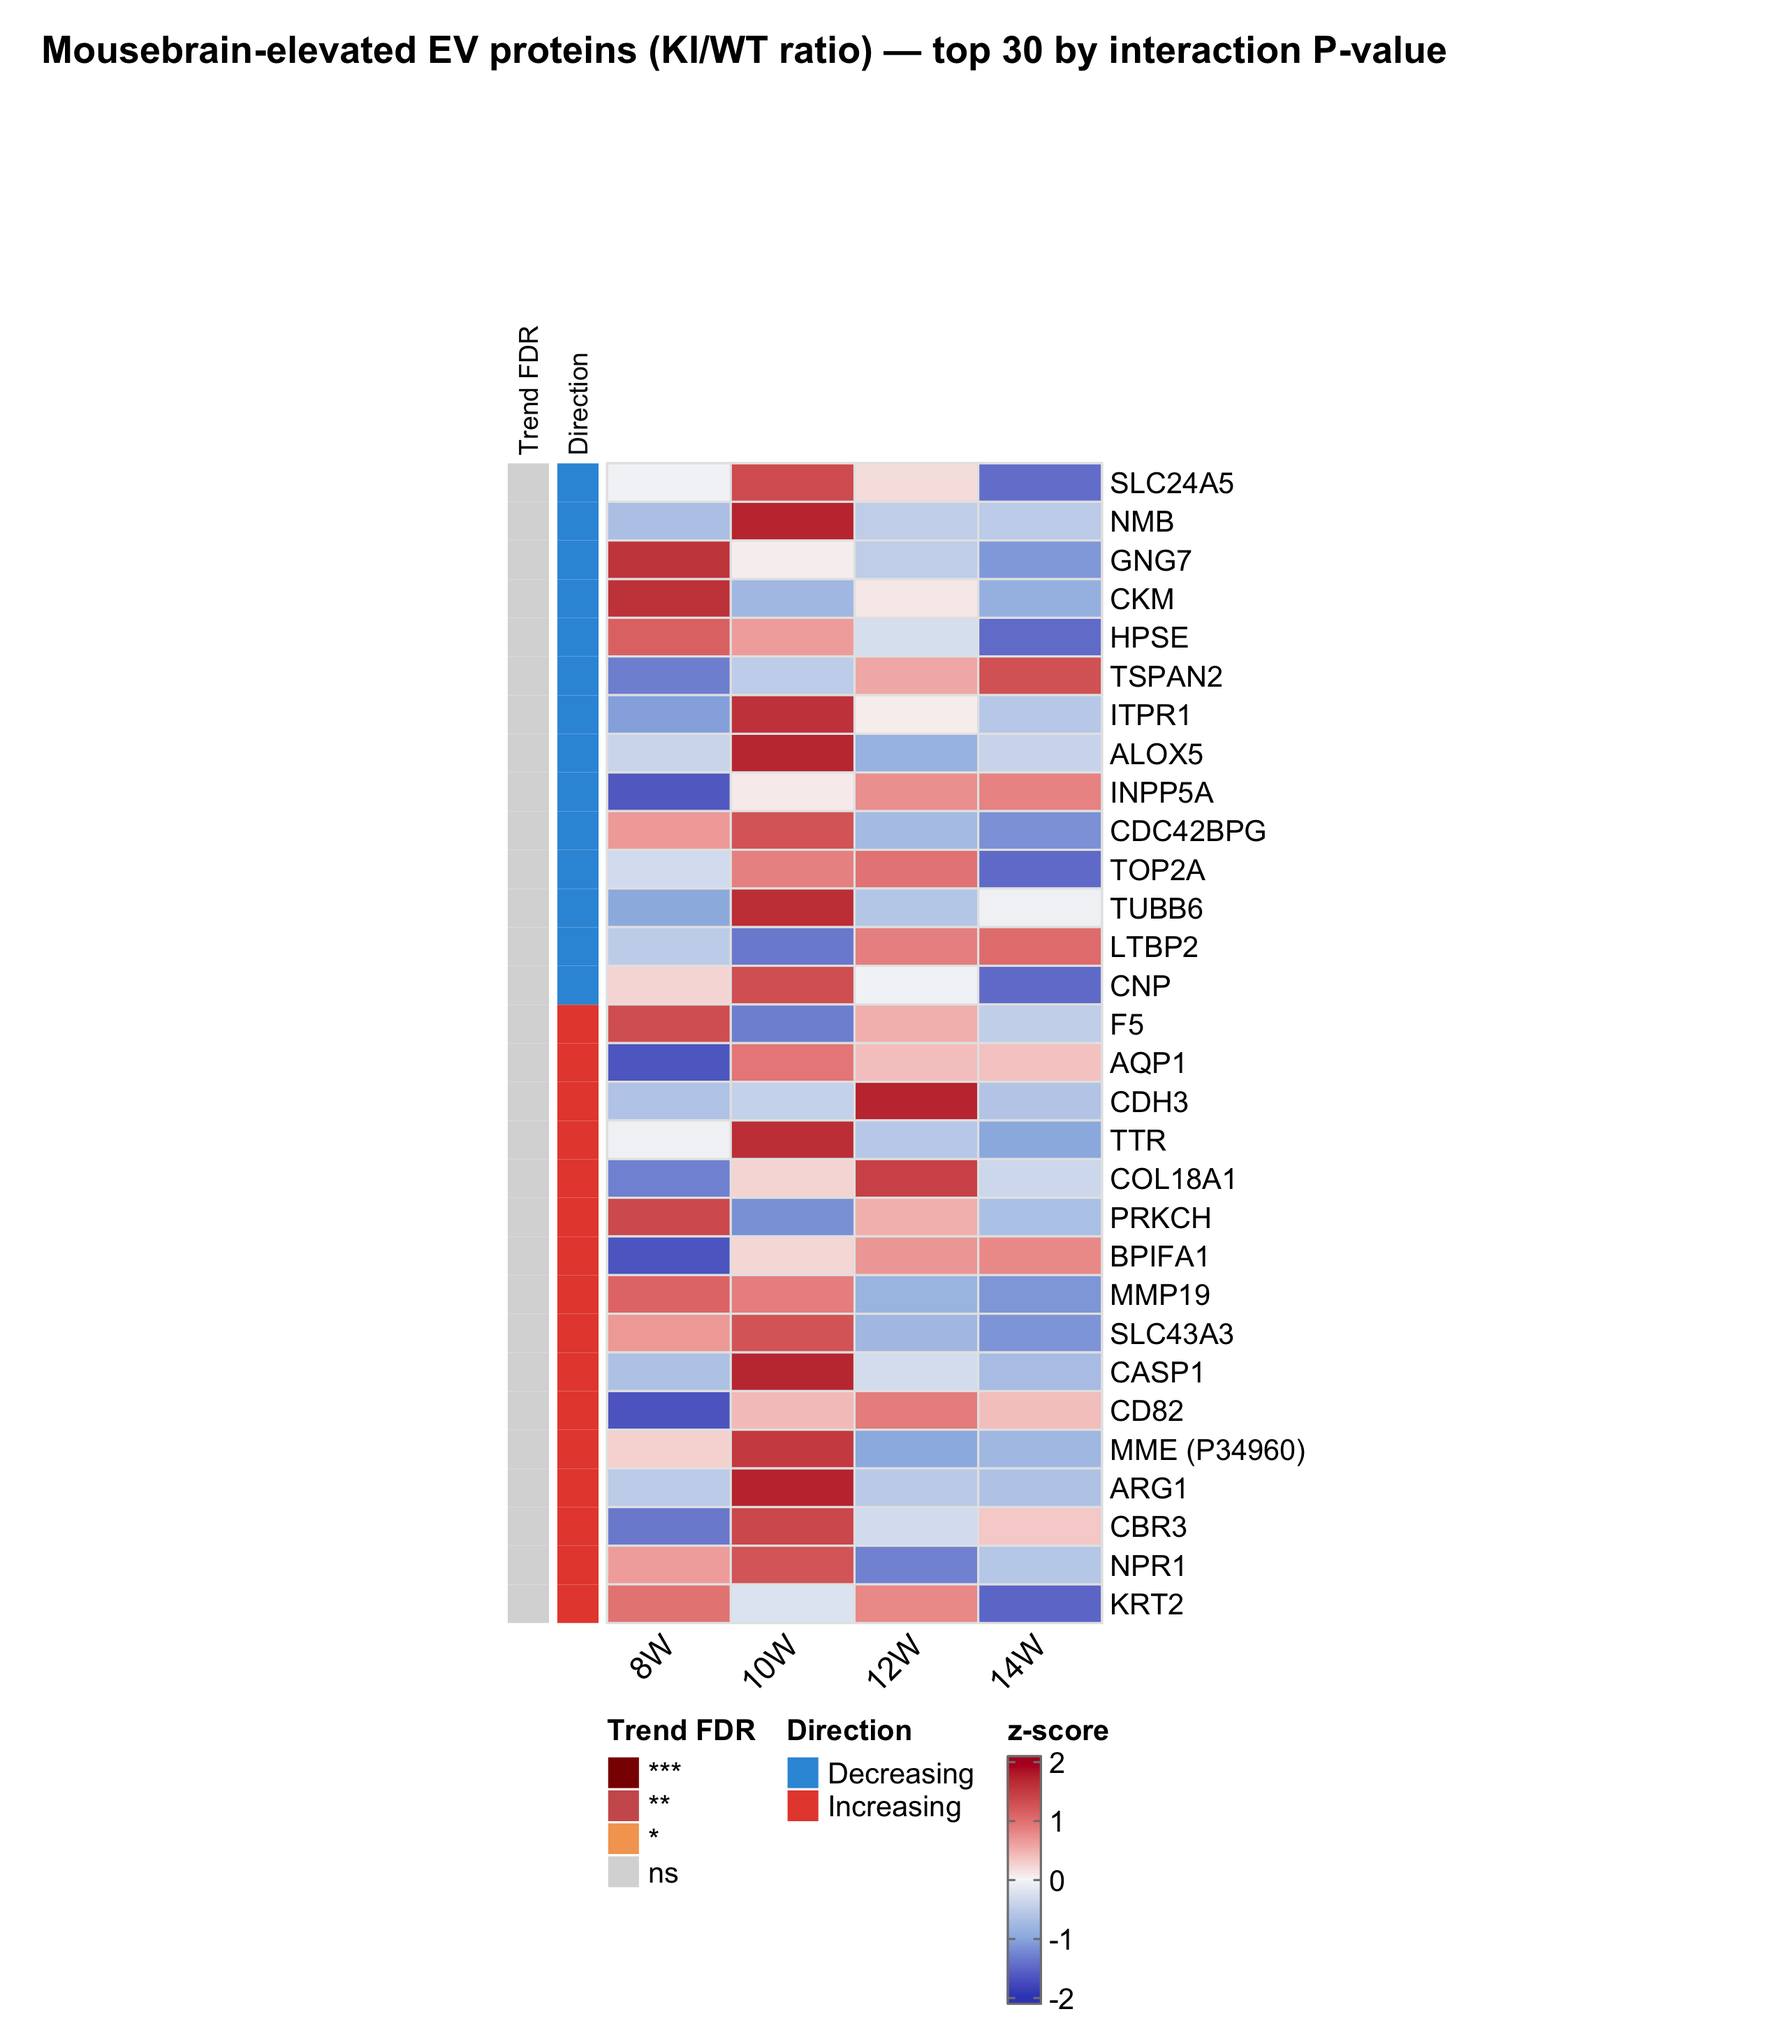
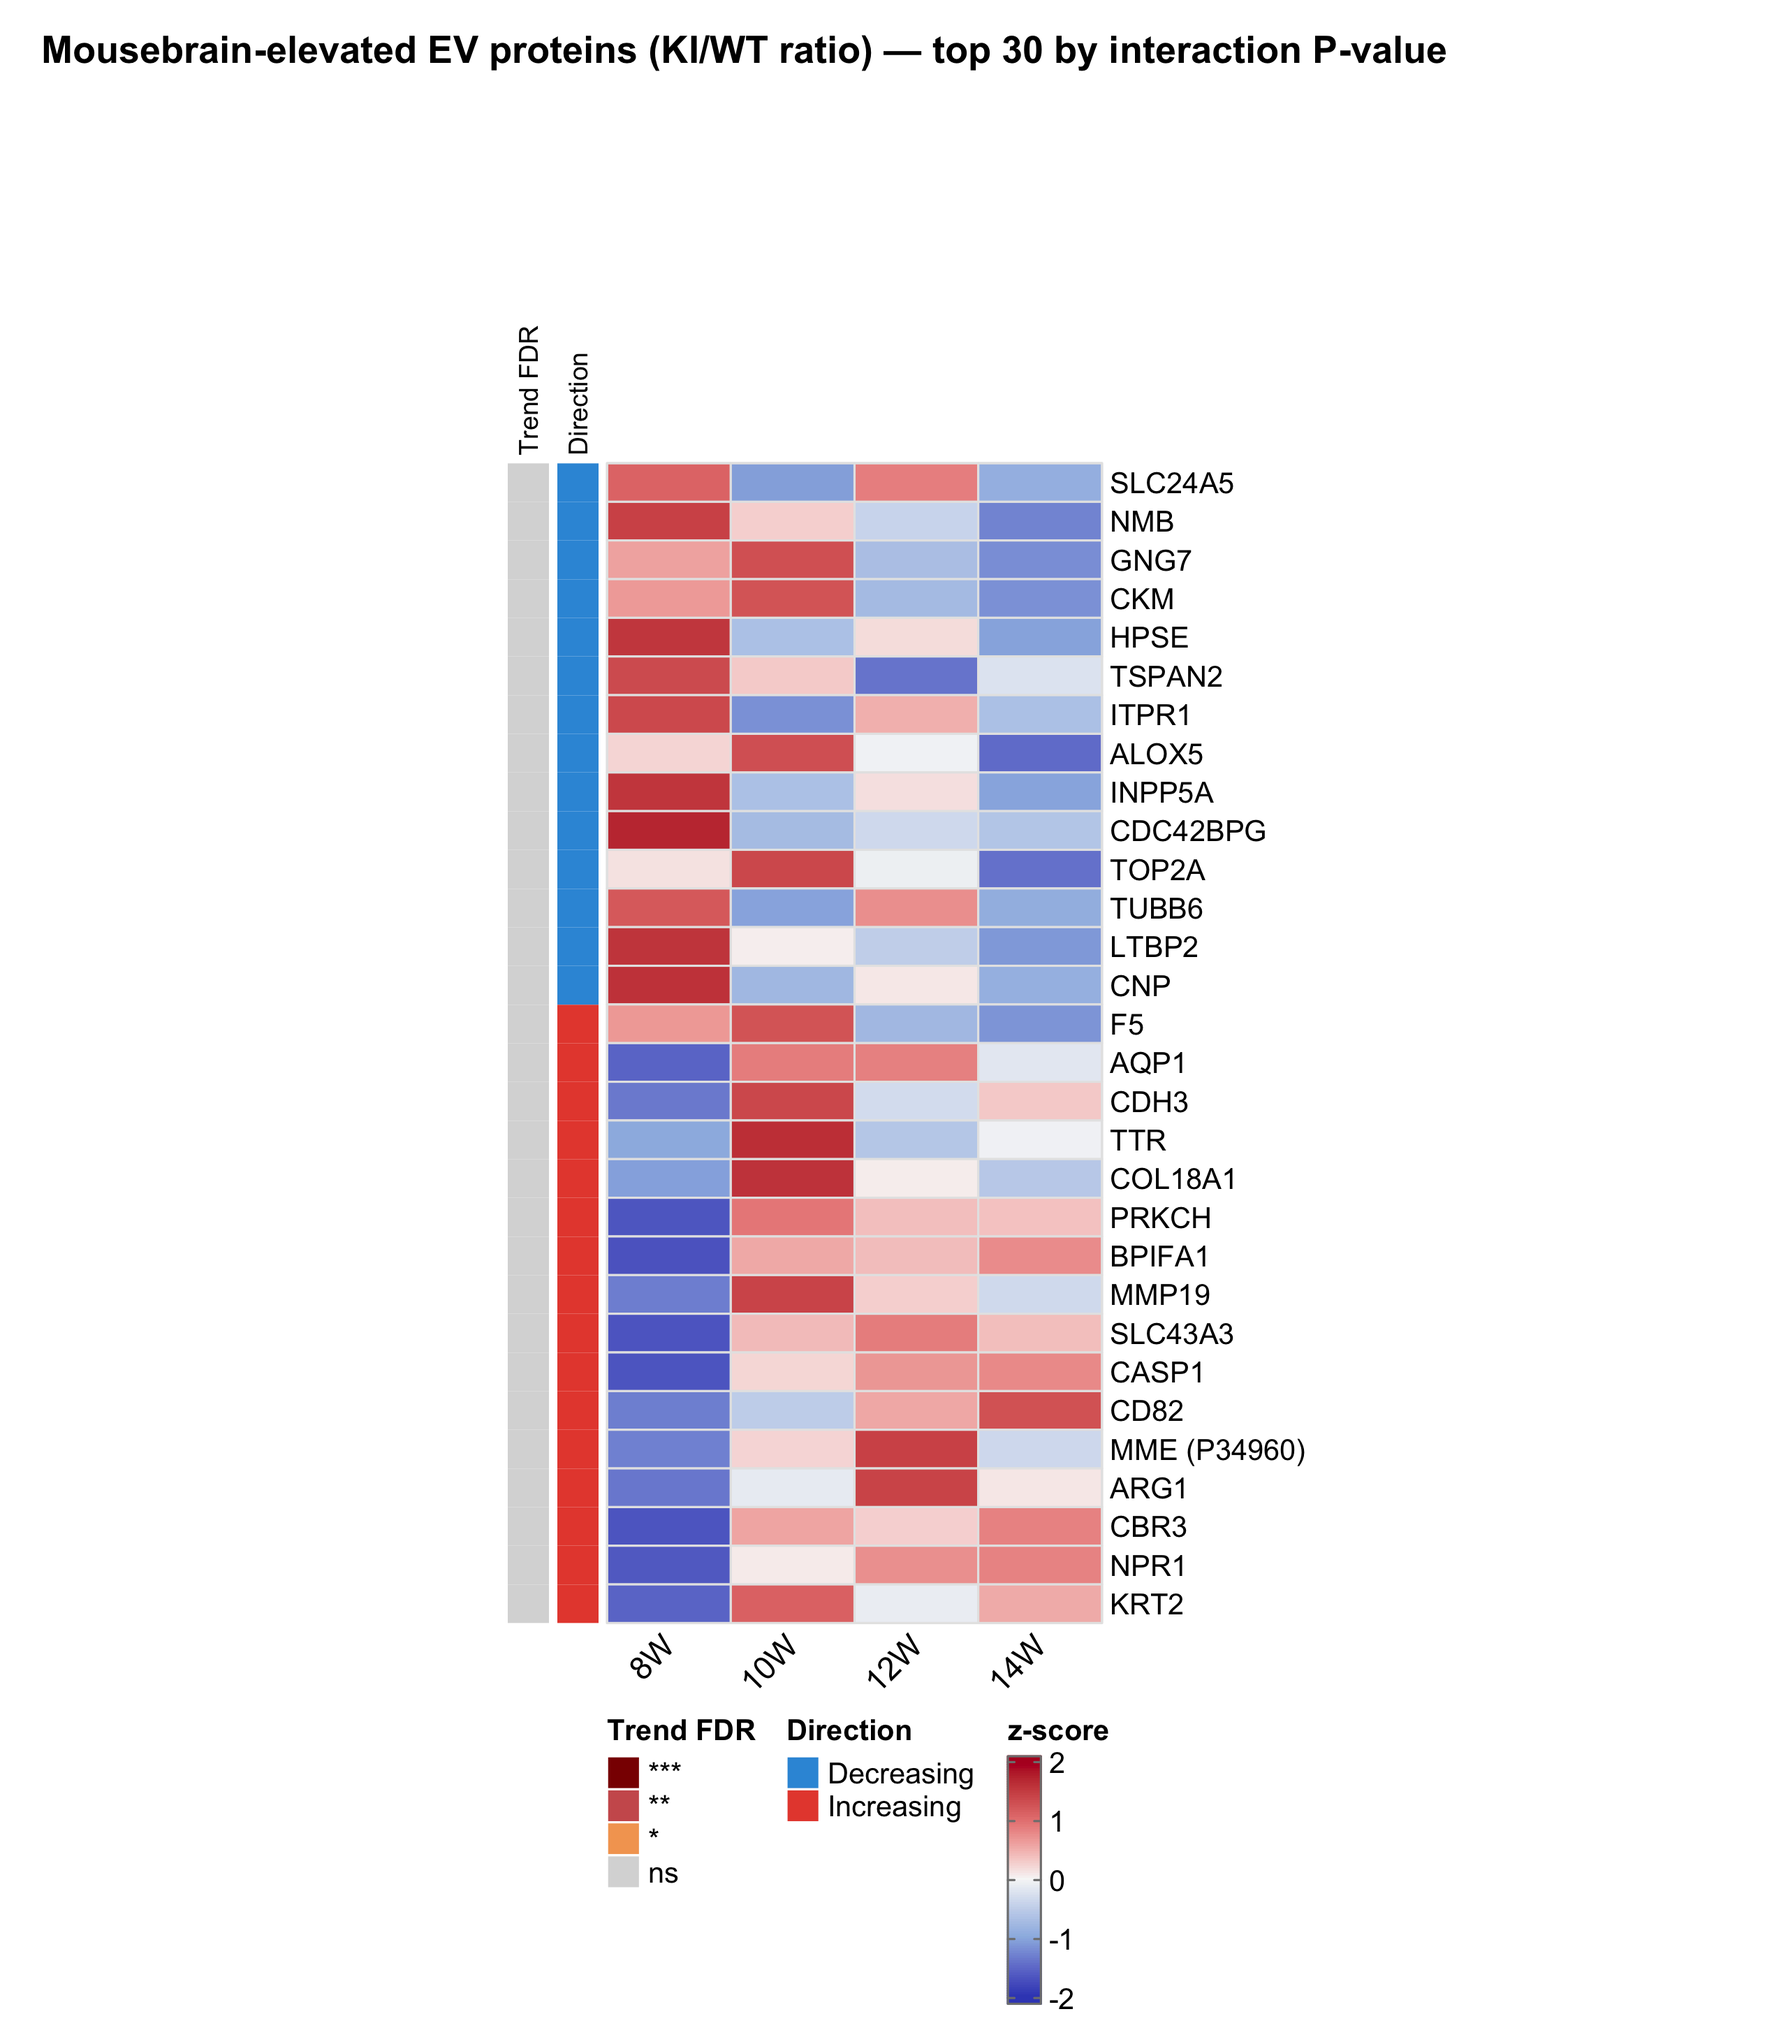
commit: result export to public desktop

Changed region(s): [[0.3408, 0.2177, 0.6196, 0.8086]]

diff --git a/branch/scripts/run_ev_trend_analysis.py b/branch/scripts/run_ev_trend_analysis.py
@@ -256,9 +256,18 @@ def plot_candidate_coverage_funnel(n_total, n_raw, n_wt, n_ki, logger):
 
 def _stage_group_means(matrix: pd.DataFrame, bio: pd.DataFrame) -> pd.DataFrame:
     """Per-protein group mean at each ordered timepoint + a simple monotonic-
-    ity flag. Used both by run_trend_test (WT/KI branches) and by the
-    genotype-interaction analysis (descriptive-only there — see its own
-    significance test)."""
+    ity flag, keyed by config.ID_COL. Used both by run_trend_test (WT/KI
+    branches) and by the genotype-interaction analysis (descriptive-only
+    there — see its own significance test).
+
+    Returns a DataFrame carrying config.ID_COL so callers MUST merge on it
+    (never pd.concat(axis=1) positionally) — `matrix`'s row order is not
+    guaranteed to match whatever order the caller's own results end up in
+    (e.g. run_genotype_interaction_test sorts its output by p-value before
+    returning; a positional concat against this function's un-sorted output
+    silently pastes one protein's stage means onto a different protein's
+    row — this exact bug produced a mismatched KI_over_WT heatmap/line-plot
+    pair, caught 2026-08-14: NMB's row carried DSP's Mean_8W..14W)."""
     sample_cols = bio["column_name"].tolist()
     stage_vec = bio.set_index("column_name").loc[sample_cols, "timepoint"].astype(int).values
     vals = matrix[sample_cols].values.astype(float)
@@ -266,7 +275,9 @@ def _stage_group_means(matrix: pd.DataFrame, bio: pd.DataFrame) -> pd.DataFrame:
     gmean_mat = np.column_stack([gmeans[t] for t in tc.STAGE_ORDER])
     diffs = np.diff(gmean_mat, axis=1)
     monotonic = np.all(diffs >= 0, axis=1) | np.all(diffs <= 0, axis=1)
-    out = pd.DataFrame({f"Mean_{tc.STAGE_LABELS[t]}": gmeans[t] for t in tc.STAGE_ORDER})
+    out = pd.DataFrame({config.ID_COL: matrix[config.ID_COL].values})
+    for t in tc.STAGE_ORDER:
+        out[f"Mean_{tc.STAGE_LABELS[t]}"] = gmeans[t]
     out["Monotonic"] = monotonic
     return out
 
@@ -296,7 +307,7 @@ def run_trend_test(matrix: pd.DataFrame, bio: pd.DataFrame, logger) -> pd.DataFr
     out["JT_p_value"] = jt_p
     out["Spearman_rho"] = sp_rho
     out["Spearman_p"] = sp_p
-    out = pd.concat([out, _stage_group_means(matrix, bio)], axis=1)
+    out = out.merge(_stage_group_means(matrix, bio), on=config.ID_COL, how="left")
     out["JT_FDR"] = multipletests(out["JT_p_value"].values, method="fdr_bh")[1]
     out["Spearman_FDR"] = multipletests(out["Spearman_p"].values, method="fdr_bh")[1]
     out["Direction"] = np.where(out["Spearman_rho"] > 0, "Increasing",
@@ -817,7 +828,7 @@ def run_ki_wt_ratio_analysis(wt_matrix, wt_bio, ki_matrix, ki_bio, logger):
     # matrix). By linearity these means equal mean(KI)-mean(WT) per timepoint
     # regardless of the pairwise expansion, so they remain a faithful summary.
     stage_means = _stage_group_means(ratio_matrix, ratio_bio)
-    trend_df = pd.concat([interaction_df, stage_means], axis=1)
+    trend_df = interaction_df.merge(stage_means, on=config.ID_COL, how="left")
     utils.save_tsv(trend_df, tc.RESULTS_DIR, f"trend_test_results_{label}")
 
     fig_dir = tc.figures_stage_dir(tc.STAGE_02_TREND, label)
